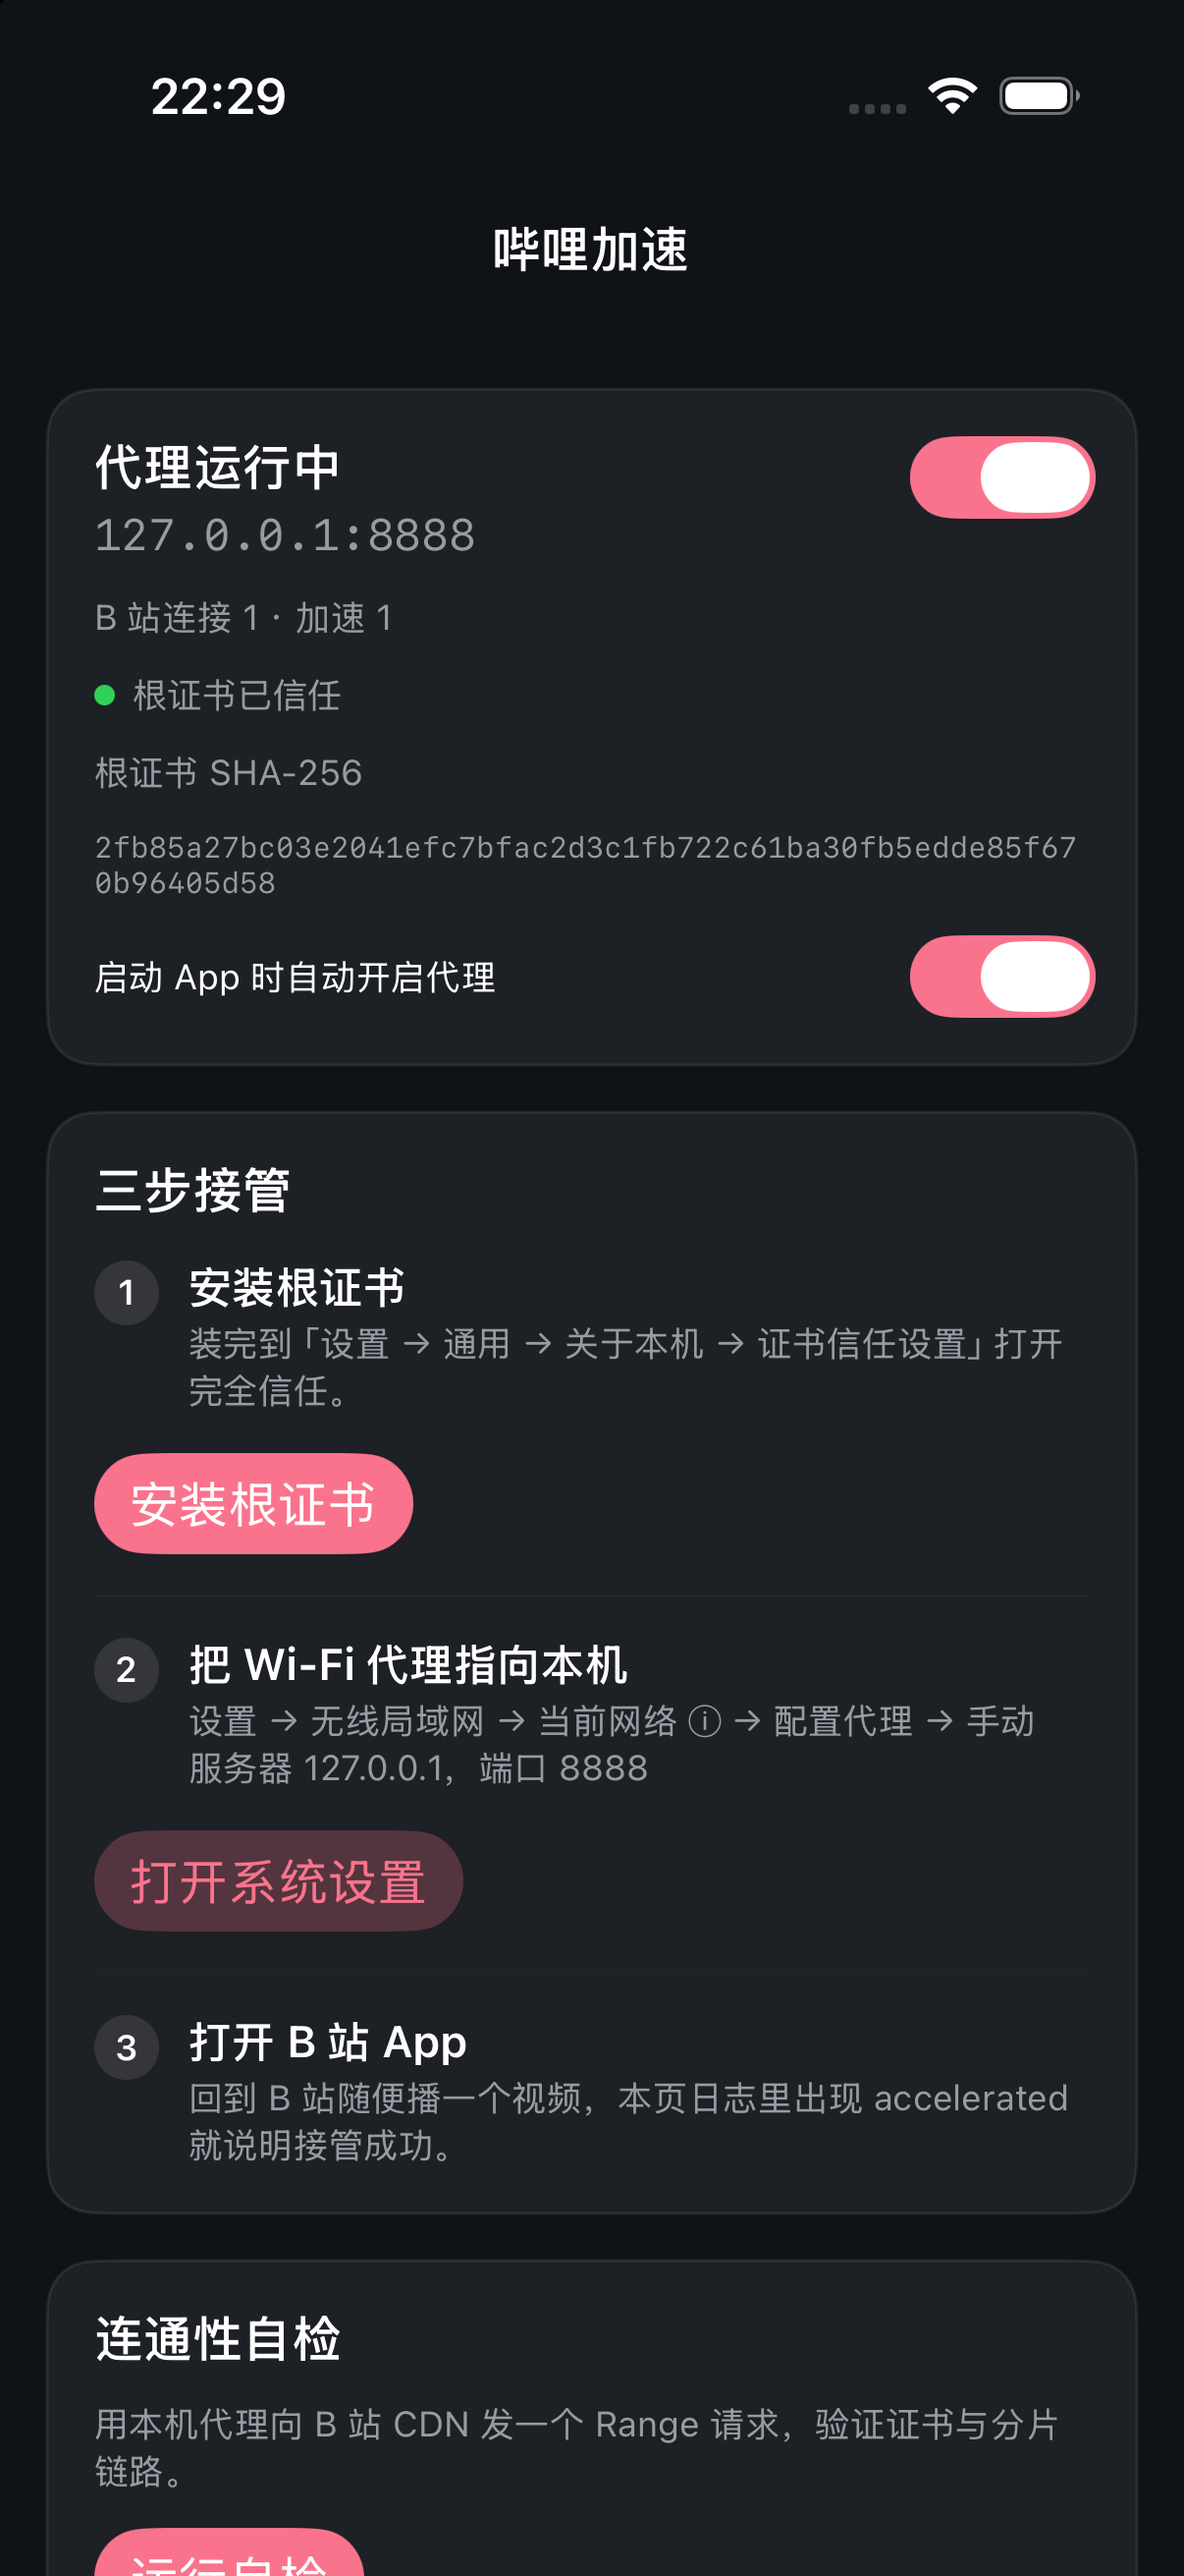
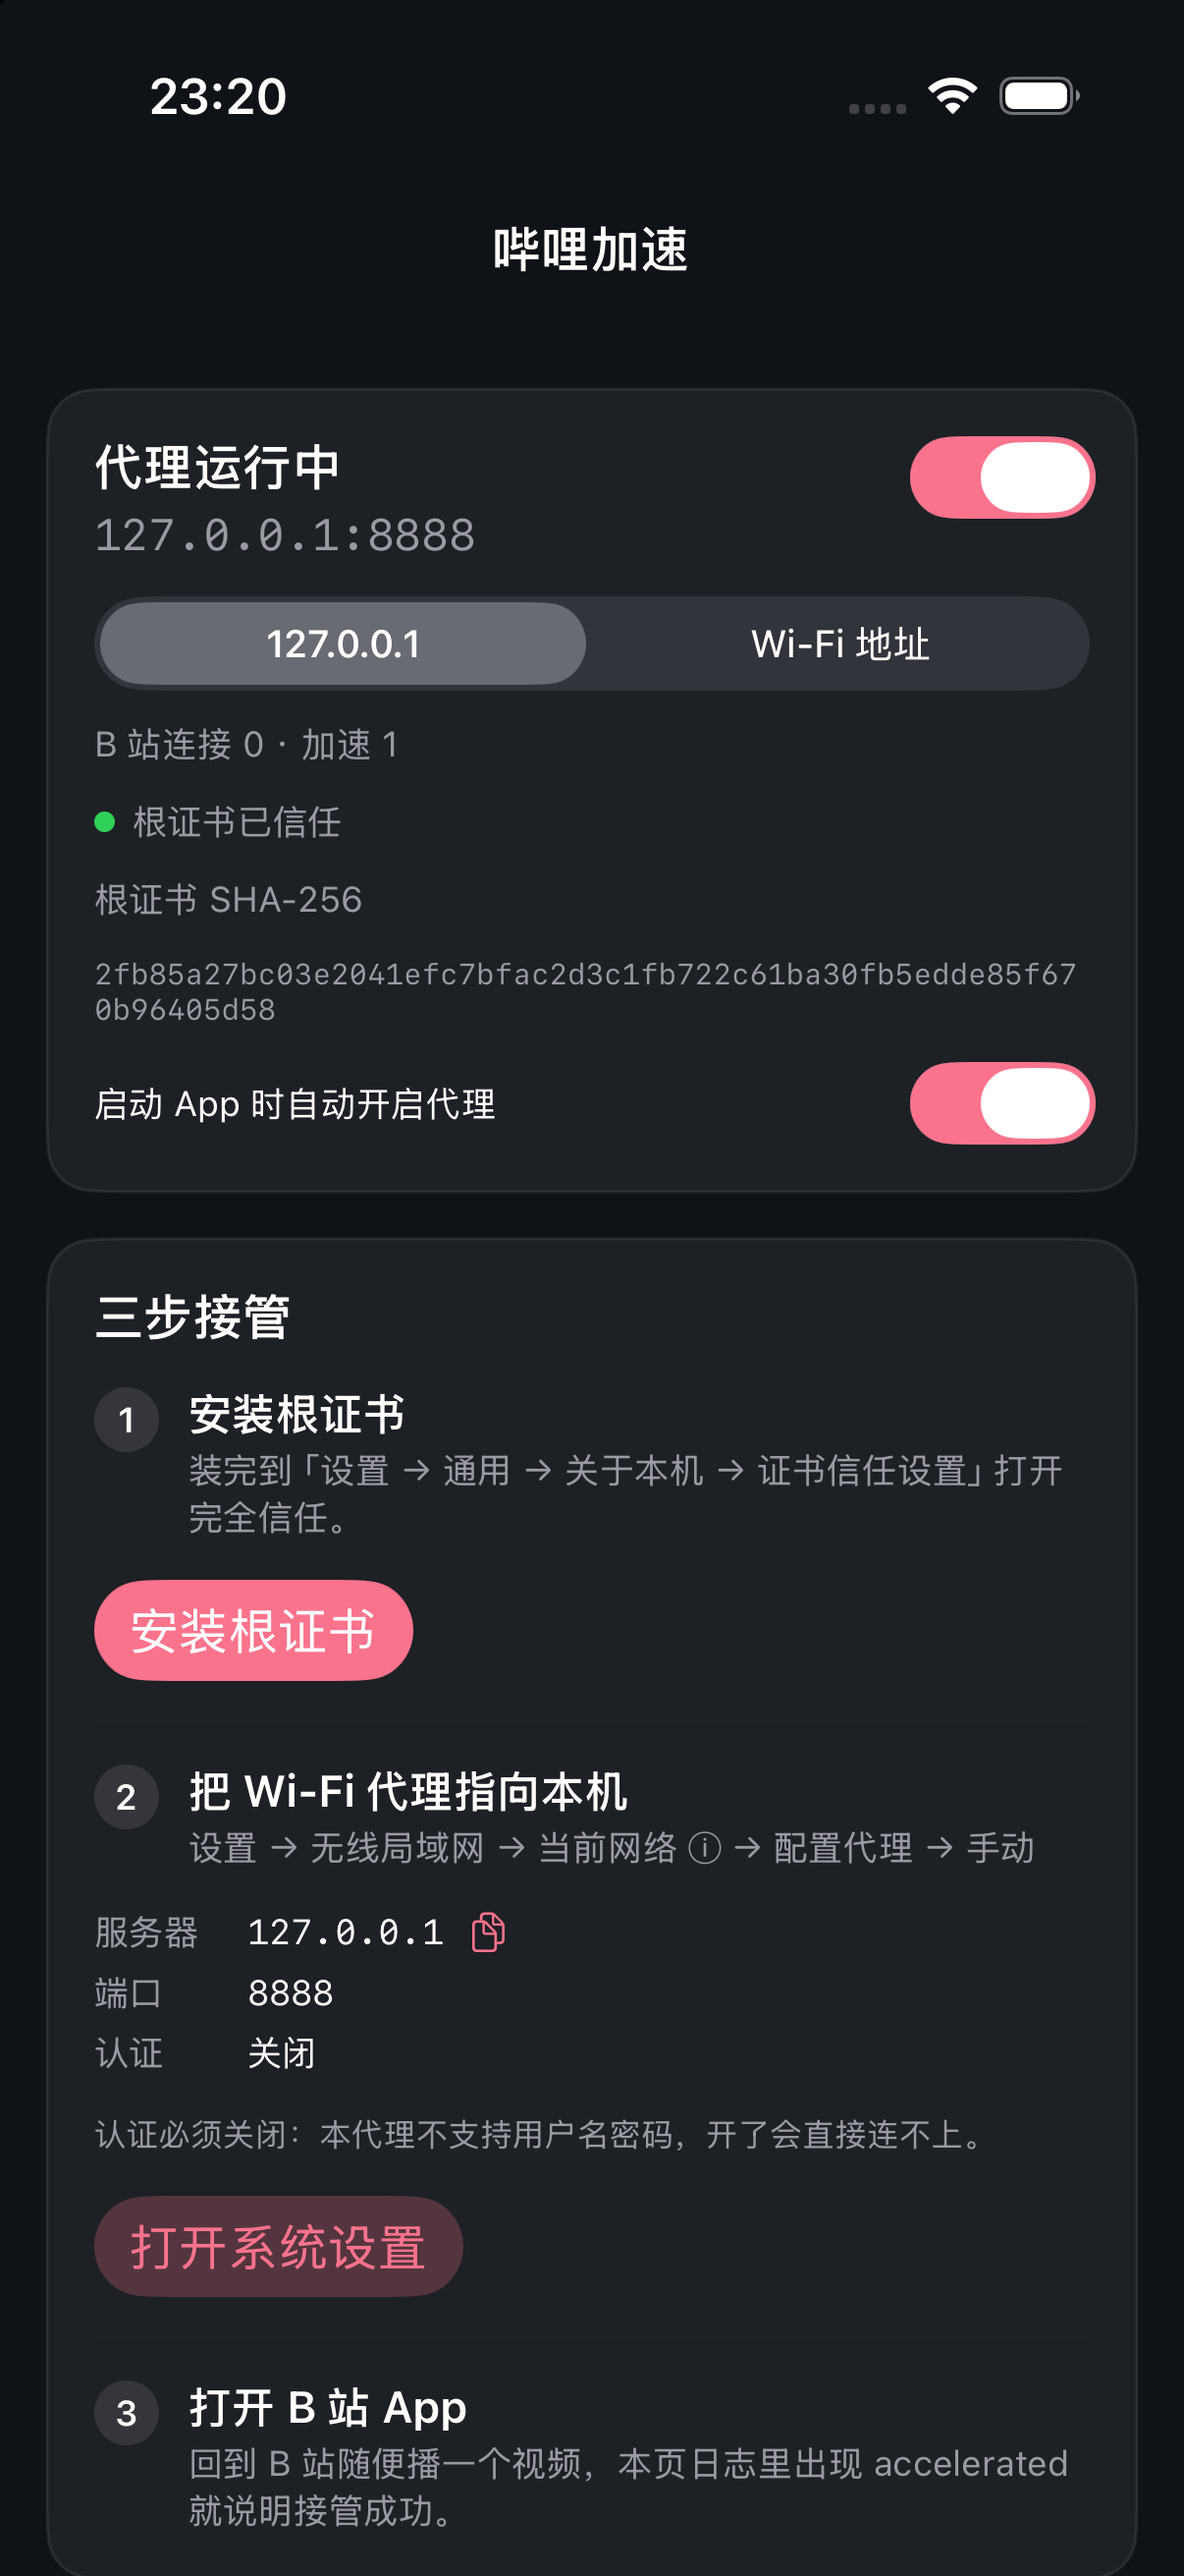
ui: spell out proxy server/port/authentication (auth must stay off)

diff --git a/App/Sources/ContentView.swift b/App/Sources/ContentView.swift
@@ -1,4 +1,5 @@
 import SwiftUI
+import UIKit
 
 struct ContentView: View {
     @EnvironmentObject private var controller: ProxyController
@@ -134,7 +135,19 @@ struct ContentView: View {
             Divider().opacity(0.2)
 
             step(number: 2, title: "把 Wi-Fi 代理指向本机",
-                 detail: "设置 → 无线局域网 → 当前网络 ⓘ → 配置代理 → 手动\n填 \(controller.proxyAddress)")
+                 detail: "设置 → 无线局域网 → 当前网络 ⓘ → 配置代理 → 手动")
+
+            VStack(alignment: .leading, spacing: 6) {
+                proxyRow("服务器", controller.proxyHost, copyable: true)
+                proxyRow("端口", "\(controller.proxyPort)", copyable: false)
+                proxyRow("认证", "关闭", copyable: false)
+            }
+
+            Text("认证必须关闭：本代理不支持用户名密码，开了会直接连不上。")
+                .font(.caption2)
+                .foregroundStyle(.secondary)
+                .fixedSize(horizontal: false, vertical: true)
+
             Button("打开系统设置") { controller.openWiFiSettings() }
                 .buttonStyle(.bordered)
 
@@ -215,6 +228,27 @@ struct ContentView: View {
                 .fixedSize(horizontal: false, vertical: true)
         }
         .card()
+    }
+
+    private func proxyRow(_ title: String, _ value: String, copyable: Bool) -> some View {
+        HStack(spacing: 8) {
+            Text(title)
+                .font(.caption)
+                .foregroundStyle(.secondary)
+                .frame(width: 44, alignment: .leading)
+            Text(value)
+                .font(.system(.caption, design: .monospaced))
+            if copyable {
+                Button {
+                    UIPasteboard.general.string = value
+                } label: {
+                    Image(systemName: "doc.on.doc")
+                        .font(.caption2)
+                }
+                .buttonStyle(.borderless)
+            }
+            Spacer(minLength: 0)
+        }
     }
 
     private func step(number: Int, title: String, detail: String) -> some View {

diff --git a/App/Sources/ProxyController.swift b/App/Sources/ProxyController.swift
@@ -80,9 +80,11 @@ final class ProxyController: ObservableObject {
         LocalAddresses.ipv4().first { $0 != "127.0.0.1" }
     }
 
-    var proxyAddress: String {
-        bindMode == .loopback ? "127.0.0.1:\(proxyPort)" : "\(wifiAddress ?? "0.0.0.0"):\(proxyPort)"
+    var proxyHost: String {
+        bindMode == .loopback ? "127.0.0.1" : (wifiAddress ?? "0.0.0.0")
     }
+
+    var proxyAddress: String { "\(proxyHost):\(proxyPort)" }
     var profileURL: URL { URL(string: "http://127.0.0.1:\(Self.profilePort)/ca.mobileconfig")! }
 
     private var caDirectory: URL {

diff --git a/docs/device-test.md b/docs/device-test.md
@@ -17,7 +17,8 @@
 4. **回 App 看状态**：应显示绿点「根证书已信任」。点「运行自检」，应在一两秒内出现
    `✅ 通过：…（206，… 字节）`。
 5. **改代理**：设置 → 无线局域网 → 当前网络 ⓘ → 配置代理 → 手动 →
-   服务器 `127.0.0.1`，端口 `8888`，存储。
+   服务器 `127.0.0.1`，端口 `8888`，**认证保持关闭**（本代理不支持用户名密码，
+   开了认证会直接连不上），存储。
 6. **播 B 站**：打开 B 站 App，随便点开一个视频，播 10–20 秒。
 7. **回 App**：看「B 站连接 / 加速」计数和日志，点日志右上角分享，发我。
 
